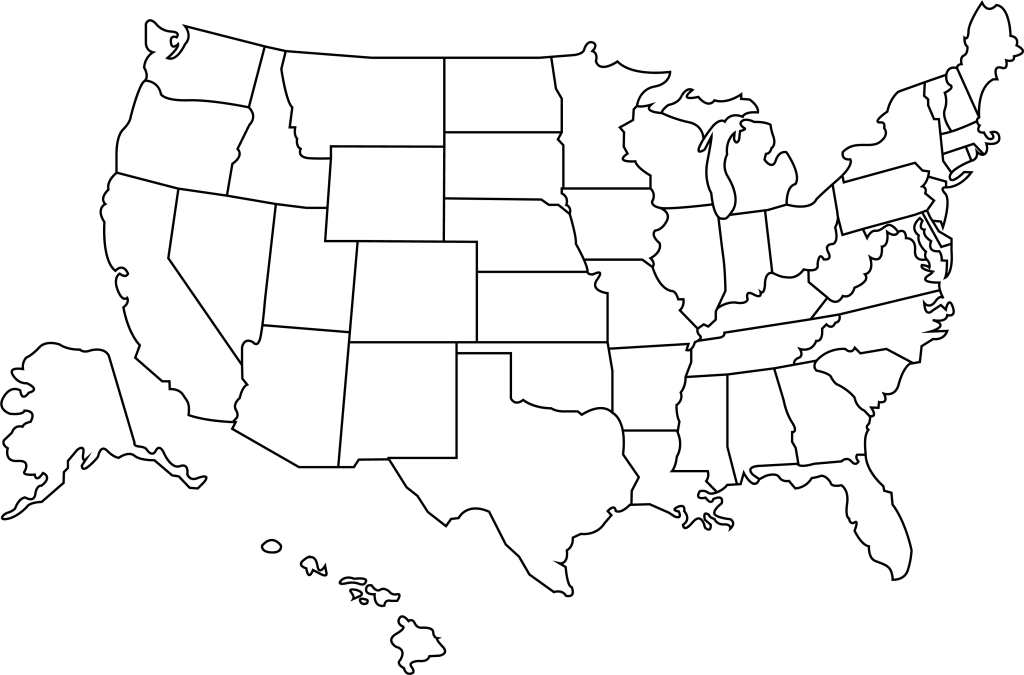
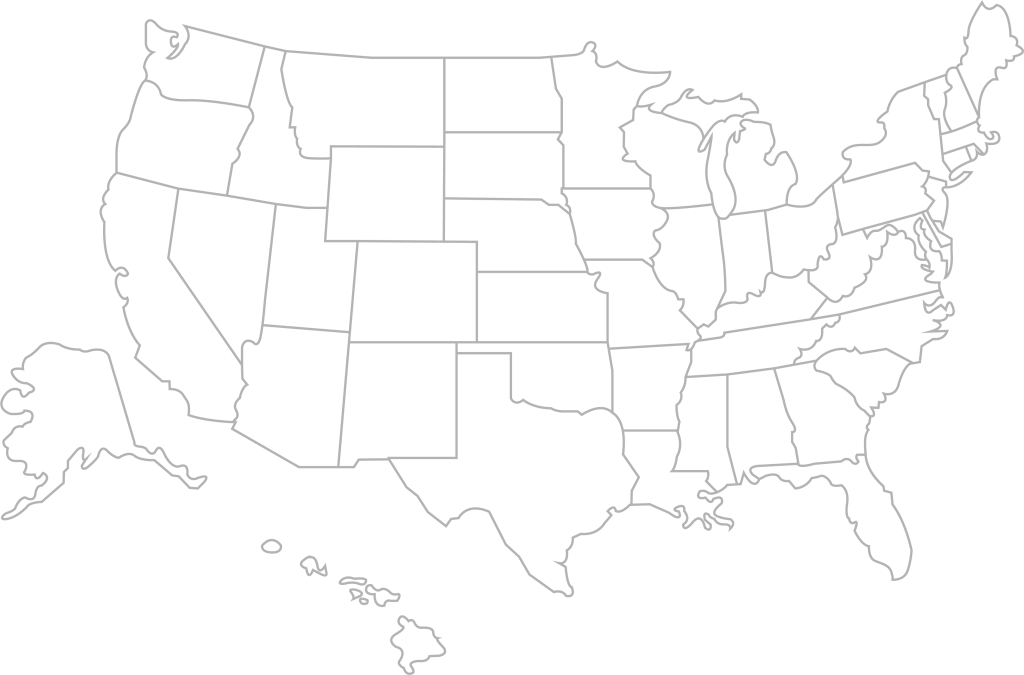
styling final

diff --git a/index.js b/index.js
@@ -14,9 +14,9 @@ function displayResults(responseJson) {
   const negativeNum = numberWithCommas(responseJson.negative);
   const confirmedDeath = numberWithCommas(responseJson.deathConfirmed);
   $("#results-list").append(
-    `<li><h2>Positive Test Results:</h2> ${positiveNum}<p>Total number of poeple with confirmed or probable cases of Covid-19. A confirmed case has a positive test result, a probably case is when a patient has symptoms and has been exposed to a confirmed case.</li>
-        <li><h2>Negative Test Results:</h2> ${negativeNum}<p>Results of the PCR (molecular) test the have returned negative. This number should be considered an estimate because of the complexity of reporting it.</li>
-        <li><h2>Confirmed Deaths:</h2> ${confirmedDeath}<p>Total fatalities with confirmed Covid-19 diagnosis and the death certificate lists Covid-19 as a cause or underlying cause of death.</li>
+    `<li><h2>Positive Test Results:</h2> ${positiveNum}<p>Total number of poeple with confirmed or probable cases of Covid-19. A confirmed case has a positive test result, a probably case is when a patient has symptoms and has been exposed to a confirmed case.</li><br>
+        <li><h2>Negative Test Results:</h2> ${negativeNum}<p>Results of the PCR (molecular) test the have returned negative. This number should be considered an estimate because of the complexity of reporting it.</li><br>
+        <li><h2>Confirmed Deaths:</h2> ${confirmedDeath}<p>Total fatalities with confirmed Covid-19 diagnosis and the death certificate lists Covid-19 as a cause or underlying cause of death.</li><br>
         `
   );
 
@@ -48,8 +48,8 @@ function stateProjections(responseJson) {
   const rt = responseJson.projections.rt || "Data not available";
   const testPositivity = responseJson.metrics.testPositivity;
   $("#results-list").append(
-    `<li><h2>Rt:</h2> ${rt}<p>Rate of infection, for example, how many people the virus could spread to from one infected person.</p></li>
-          <li><h2>Test Positivity Ratio:</h2> ${testPositivity}<p>Ratio of people who test positive calculated using a 7-day rolling average.</p></li>`
+    `<li><h2>Rt:</h2> ${rt}<p>Rate of infection, for example, how many people the virus could spread to from one infected person.</p></li><br>
+          <li><h2>Test Positivity Ratio:</h2> ${testPositivity}<p>Ratio of people who test positive calculated using a 7-day rolling average.</p></li><br>`
   );
 }
 

diff --git a/index.html b/index.html
@@ -17,7 +17,7 @@
       <ul id="us-results"></ul>
     </div>
 
-    <div class="dropdown">
+    <main class="dropdown">
       <form id="js-form">
         <h2>Choose a US State or Territory:</h2>
         <select id="js-search-term">
@@ -86,10 +86,10 @@
       <p id="js-error-message" class="error-message"></p>
 
       <section id="results" class="hidden">
-        <h2>Search results</h2>
+        <h2 style="text-align: center;">Search results</h2>
         <ul id="results-list"></ul>
       </section>
-    </div>
+    </main>
     <script
       src="https://code.jquery.com/jquery-3.3.1.js"
       integrity="sha256-2Kok7MbOyxpgUVvAk/HJ2jigOSYS2auK4Pfzbm7uH60="
@@ -101,9 +101,10 @@
       <h3>
         These results were collected from
         <a href="https://covidtracking.com"
-          >The Covid Tracking Project supported by The Atlantic.</a
+          >The Covid Tracking Project supported by The Atlantic</a
         >
-        and <a href="https://covidactnow.org">Covid Act Now</a>
+        and <a href="https://covidactnow.org">Covid Act Now.</a>
+        Data is updated daily.
       </h3>
     </footer>
   </body>

diff --git a/index.css b/index.css
@@ -4,20 +4,12 @@ body {
   display: flex;
   flex-direction: column;
   align-items: center;
-}
-
-body::after {
+  flex-wrap: wrap;
   background-image: url(USAMAP.png);
   background-repeat: no-repeat;
   background-position: center;
   content: "";
-  opacity: 0.2;
-  top: 0;
-  left: 0;
-  bottom: 0;
-  right: 0;
-  position: absolute;
-  z-index: -1;
+  background-attachment: fixed;
 }
 
 h1 {
@@ -51,11 +43,18 @@ p {
 }
 
 #results-list {
-  flex-direction: row;
+  display: flex;
+  flex-direction: column;
+  padding: 0;
+  max-width: 600px;
 }
 
 ul {
   list-style: none;
+}
+
+footer {
+  justify-items: center;
 }
 
 @media all and (max-width: 800px) {
